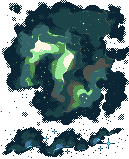
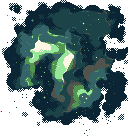
star view finalized

diff --git a/src/AstroOdyssey/AstroOdyssey.Shared/Components/Star.cs b/src/AstroOdyssey/AstroOdyssey.Shared/Components/Star.cs
@@ -38,23 +38,27 @@ namespace AstroOdyssey
 
             if (isCelestialObject)
             {
-                var starType = random.Next(1, 3);
+                var starType = random.Next(1, 4);
 
                 switch (starType)
                 {
                     case 1:
                         uri = new Uri("ms-appx:///Assets/Images/black-hole.png", UriKind.RelativeOrAbsolute);
-                        size = 140;
+                        size = 130 - random.Next(1, 15);
                         break;
                     case 2:
                         uri = new Uri("ms-appx:///Assets/Images/nebula.png", UriKind.RelativeOrAbsolute);
-                        size = 170;
-                        break;                   
+                        size = 130 - random.Next(1, 15);
+                        break;
+                    case 3:
+                        uri = new Uri("ms-appx:///Assets/Images/nebula2.png", UriKind.RelativeOrAbsolute);
+                        size = 130 - random.Next(1, 15);
+                        break;
                 }
             }
             else
             {
-                var starType = random.Next(1, 9);
+                var starType = random.Next(1, 13);
 
                 switch (starType)
                 {
@@ -90,8 +94,24 @@ namespace AstroOdyssey
                         uri = new Uri("ms-appx:///Assets/Images/star_tiny2.png", UriKind.RelativeOrAbsolute);
                         size = 20;
                         break;
+                    case 9:
+                        uri = new Uri("ms-appx:///Assets/Images/gas_star1.png", UriKind.RelativeOrAbsolute);
+                        size = 30 - random.Next(1, 15);
+                        break;
+                    case 10:
+                        uri = new Uri("ms-appx:///Assets/Images/gas_star2.png", UriKind.RelativeOrAbsolute);
+                        size = 30 - random.Next(1, 15);
+                        break;
+                    case 11:
+                        uri = new Uri("ms-appx:///Assets/Images/gas_star3.png", UriKind.RelativeOrAbsolute);
+                        size = 30 - random.Next(1, 15);
+                        break;
+                    case 12:
+                        uri = new Uri("ms-appx:///Assets/Images/gas_star4.png", UriKind.RelativeOrAbsolute);
+                        size = 30 - random.Next(1, 15);
+                        break;
                 }
-            }           
+            }
 
             content.Source = new BitmapImage(uri);
 
